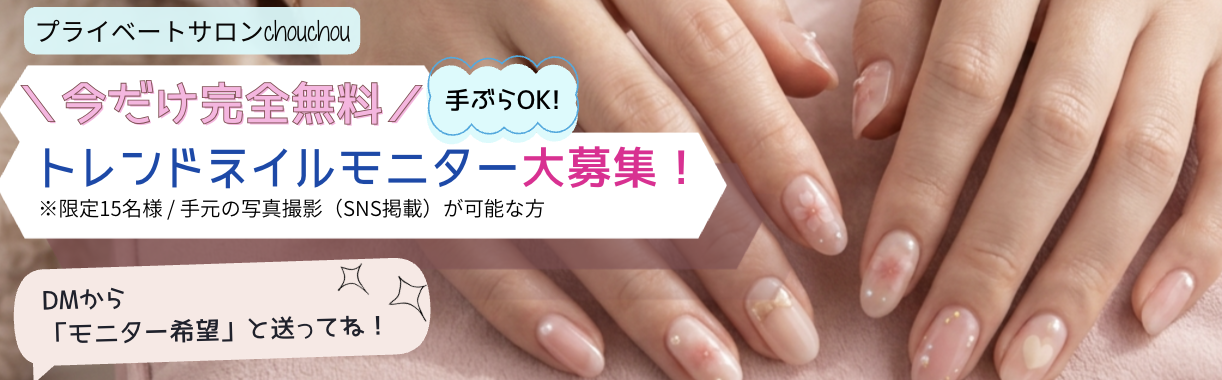
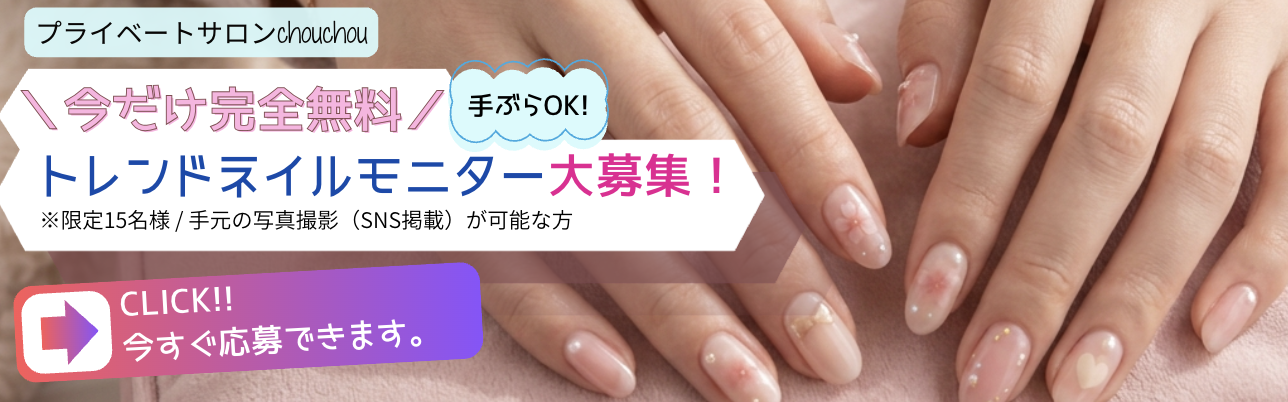
モニター募集バナー

diff --git a/main.js b/main.js
@@ -99,14 +99,14 @@ const works = [
         workPoint: `板チョコレートをパキッと割ったときの様子を表現しています。「Noir（黒）」を象徴するトリュフを、右側にシズル感のあるチョコレートソースを配置し、「静」と「動」の対比で目を引く構成にしています。主張したいのは左側のトリュフなので、左を範囲広めにしています。`,
 
     },
-    //         {
-    //     workImage:`images/nailmonitor.png`,
-    //     workTitle: `ネイルサロンのモニター募集のバナー(320 × 100px)`,
-    //     workItem: `「ネイルはしたいけれど、毎月の出費を抑えたい」と思っている学生やフリーター、若手会社員。`,
-    //     workSkill: `Canva`,
-    //     workPoint: `ターゲットが学生や若い女性なので、ガーリーで上品な雰囲気のデザインを心がけました。左側に情報を集めたため、なるべくごちゃつかないように文字それぞれが独立して見えるようにフォントやエフェクトを工夫しました。`,
+            {
+        workImage:`images/nailmonitor.png`,
+        workTitle: `ネイルサロンのモニター募集のバナー(320 × 100px)`,
+        workItem: `「ネイルはしたいけれど、毎月の出費を抑えたい」と思っている学生やフリーター、若手会社員。`,
+        workSkill: `Canva`,
+        workPoint: `左側に情報を集めたため、なるべくごちゃつかないように文字それぞれが独立して見えるようにフォントやエフェクトを工夫しました。また、クリックしたくなるようにボタンのような角丸を入れ、CLICK!!と書き色を目立たせました。`,
 
-    // },
+    },
 ];
 
 let currentIndex = 0;

diff --git a/index.html b/index.html
@@ -70,13 +70,13 @@
             </div>
             <button class="open" data-index="7">詳細を見る</button>
         </figure>
-                <!-- <figure class="item">
+                <figure class="item">
             <div class="work-link">
                 <img class="work-thumb" src="images/nailmonitor.png" alt="" data-index="8">
                 <figcaption class="caption">ネイルモニター募集のバナー</figcaption>
             </div>
             <button class="open" data-index="8">詳細を見る</button>
-        </figure> -->
+        </figure>
     </section>
     <section>
         <div id="mask" class="hidden"></div>